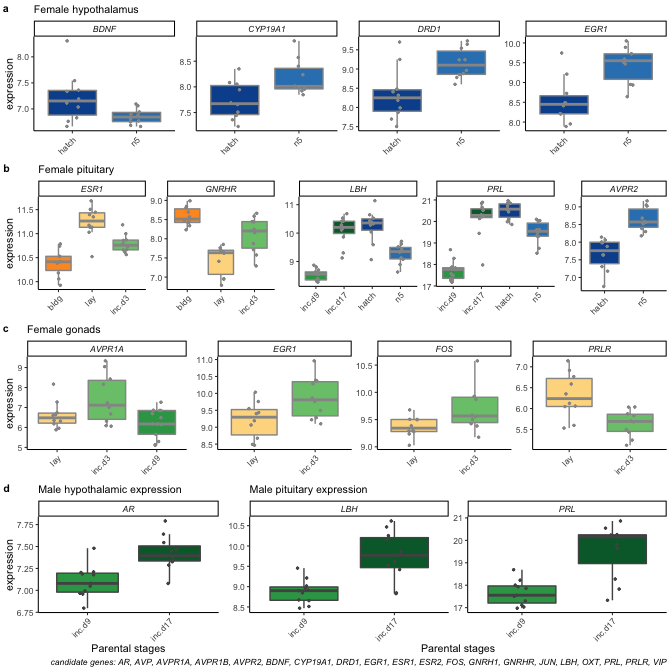
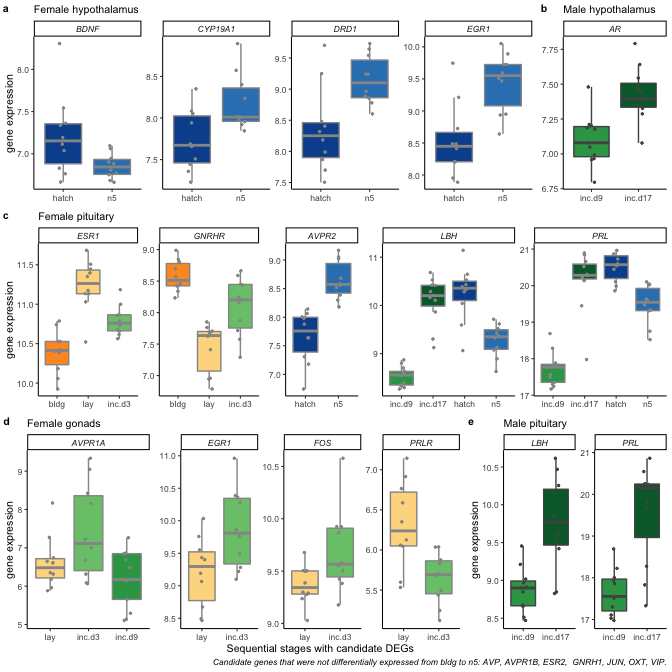
better caption, better size

Changed region(s): [[0.0, 0.0, 1.0, 1.0], [0.2188, 0.0938, 0.25, 0.125]]

diff --git a/analysis/figure-3.md b/analysis/figure-3.md
@@ -6,14 +6,14 @@ candidate genes
 
     library(tidyverse)
 
-    ## ── Attaching packages ──────────────────────────────────────────────────────────── tidyverse 1.3.0 ──
+    ## ── Attaching packages ─────────────────────────────────────────────────── tidyverse 1.3.0 ──
 
     ## ✓ ggplot2 3.3.0.9000     ✓ purrr   0.3.3     
     ## ✓ tibble  2.1.3          ✓ dplyr   0.8.3     
     ## ✓ tidyr   1.0.0          ✓ stringr 1.4.0     
     ## ✓ readr   1.3.1          ✓ forcats 0.4.0
 
-    ## ── Conflicts ─────────────────────────────────────────────────────────────── tidyverse_conflicts() ──
+    ## ── Conflicts ────────────────────────────────────────────────────── tidyverse_conflicts() ──
     ## x dplyr::filter() masks stats::filter()
     ## x dplyr::lag()    masks stats::lag()
 
@@ -77,6 +77,15 @@ candidate genes
                        
                         "FOS", "JUN", "EGR1", "BDNF"
                           ) 
+
+
+
+    # all candidate genes: AR, AVP, AVPR1A, AVPR1B, AVPR2, BDNF, CYP19A1, DRD1, EGR1, ESR1, ESR2, FOS, GNRH1, GNRHR, JUN, LBH, OXT, PRL, PRLR, VIP
+
+
+    # DEG candidate genes: AR, AVPR1A, AVPR1B, AVPR2, BDNF, CYP19A1, DRD1, ESR1, FOS, GNRHR, LBH, PRL, PRLR, 
+
+    # Candidate genes that were not differentially expressed: AVP, AVPR1B, ESR2,  GNRH1, JUN, OXT, VIP
 
 variance stabilized gene expression (vsd)
 -----------------------------------------
@@ -193,9 +202,9 @@ Figs
         theme_B3() +
         scale_fill_manual(values = allcolors) +
         scale_color_manual(values = allcolors) +
-        theme(axis.text.x = element_text(angle = 45, hjust = 1),
+        theme(#axis.text.x = element_text(angle = 45, hjust = 1),
               legend.position = "none") +
-        labs(y = "expression" , x = "Parental stages", subtitle = mysubtitle) +
+        labs(y = "gene expression" , x = "Sequential stages with candidate DEGs", subtitle = mysubtitle) +
         theme(strip.text = element_text(face = "italic"))
       return(p)
     }
@@ -205,6 +214,11 @@ Figs
                       "Female hypothalamus", "female", c("hatch", "n5"))  +
       theme(axis.title.x = element_blank())
 
+    b <- makeboxplots(hypvsd, c("AR"),"Male hypothalamus", "male", 
+                      c( "inc.d9", "inc.d17"))  +
+      theme(axis.title = element_blank())
+
+    ab <- plot_grid(a,b, rel_widths = c(4,1),  labels = "auto", label_size = 8)
 
     c <- makeboxplots(pitvsd, c("ESR1","GNRHR"), "Female pituitary", "female", c("bldg", "lay", "inc.d3"))   +
       theme(axis.title.x = element_blank())
@@ -213,28 +227,22 @@ Figs
     e <- makeboxplots(pitvsd, c( "AVPR2"), " ", "female", c( "hatch", "n5"))  +
       theme(axis.title  = element_blank())
 
-    cde <- plot_grid(c,d, e, rel_widths = c(2.5,2.5,1), nrow = 1)
+    cde <- plot_grid(c,e,d, rel_widths = c(6,2.25,7), nrow = 1,  labels = c("c"), label_size = 8)
 
 
     g <- makeboxplots(gonvsd, c( "AVPR1A"), "Female gonads", "female", c( "lay", "inc.d3", "inc.d9"))  +
-      theme(axis.title.x = element_blank())
+      labs(caption = " ", x = " ")
     h <- makeboxplots(gonvsd, c( "EGR1", "FOS", "PRLR"), " ", "female", c( "lay", "inc.d3"))  +
-      theme(axis.title = element_blank())
-
-    gh <- plot_grid(g,h,nrow = 1, rel_widths = c(1,2.5))
-
-
-    b <- makeboxplots(hypvsd, c("AR"),"Male hypothalamic expression", "male", 
-                      c( "inc.d9", "inc.d17"))  + labs(caption = " ")
-    f <- makeboxplots(pitvsd, c("LBH", "PRL"), "Male pituitary expression", "male", 
+      theme(axis.title.y = element_blank()) + labs(caption = " ")
+    f <- makeboxplots(pitvsd, c("LBH", "PRL"), "Male pituitary", "male", 
                       c("inc.d9", "inc.d17")) + 
-      theme(axis.title.y  = element_blank(),
-            plot.caption = element_text(face = "italic")) + 
-      labs(caption = "candidate genes: AR, AVP, AVPR1A, AVPR1B, AVPR2, BDNF, CYP19A1, DRD1, EGR1, ESR1, ESR2, FOS, GNRH1, GNRHR, JUN, LBH, OXT, PRL, PRLR, VIP")
+      theme(plot.caption = element_text(face = "italic")) + 
+      labs(x = " ",
+           caption = "Candidate genes that were not differentially expressed from bldg to n5: AVP, AVPR1B, ESR2,  GNRH1, JUN, OXT, VIP.")
 
-    bf <- plot_grid(b,f,nrow = 1, rel_widths = c(1,2))
+    ghf <- plot_grid(g,h,f, nrow = 1, rel_widths = c(3,6,4),  labels = c("d", " ", "e"), label_size = 8)
 
-    plot_grid(a, cde, gh, bf, nrow = 4, rel_heights = c(1,1,1,1.2), labels = "auto", label_size = 8)
+    plot_grid(ab, cde, ghf, nrow = 3, rel_heights = c(1,1,1.25))
 
 ![](../figures/fig3-1.png)
 
